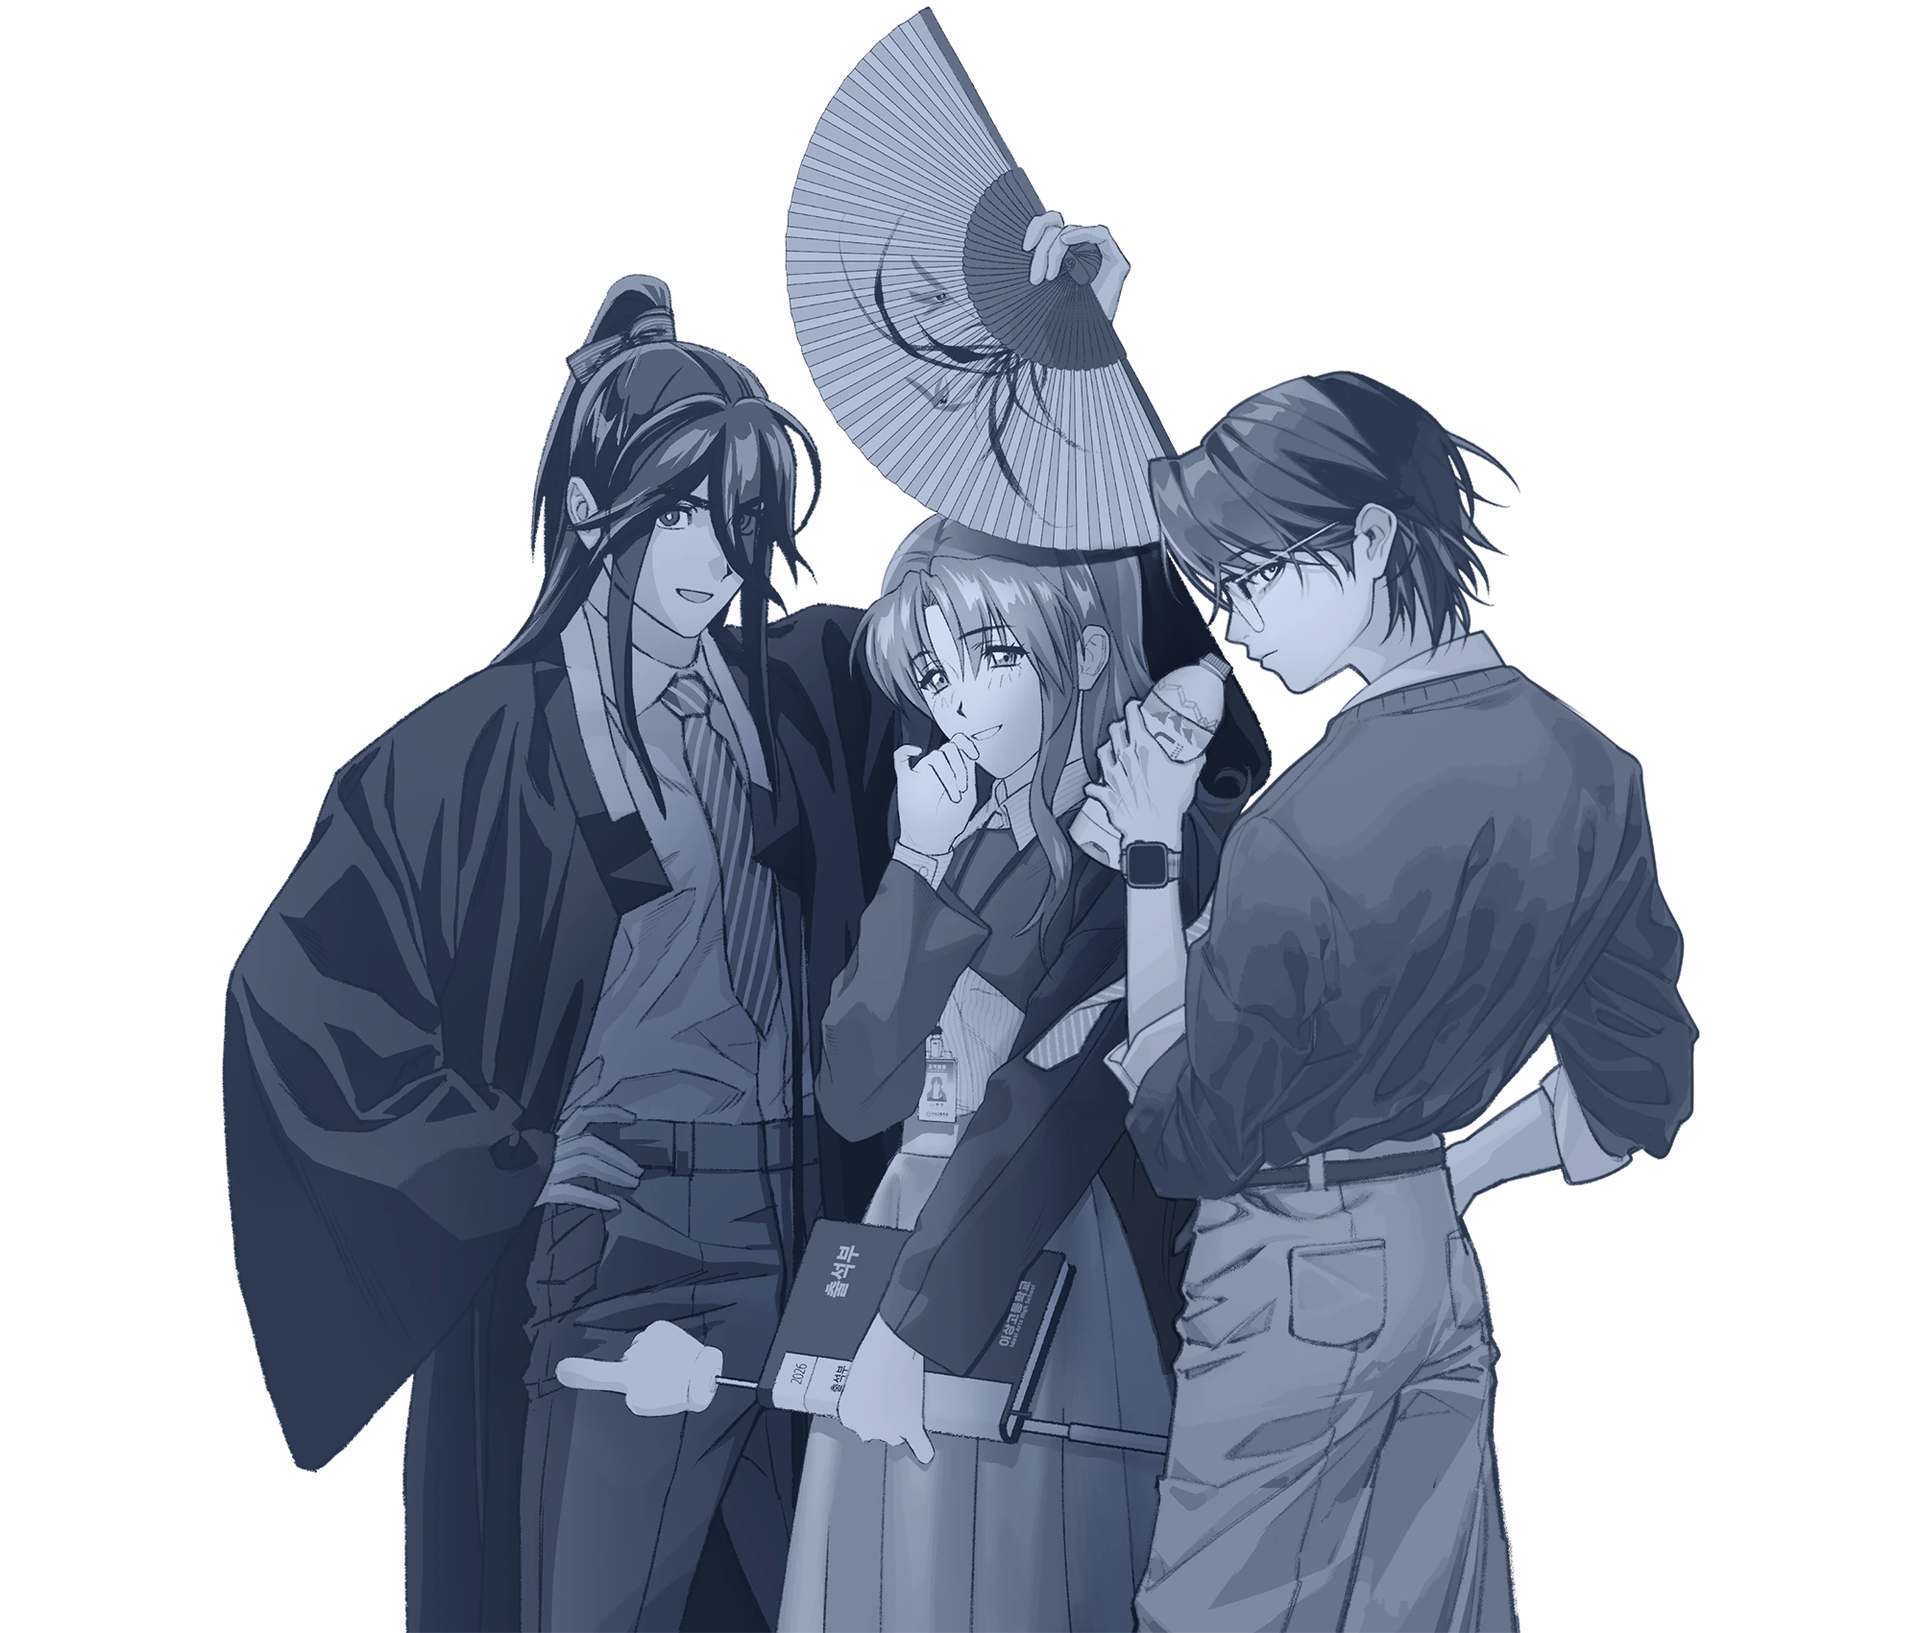
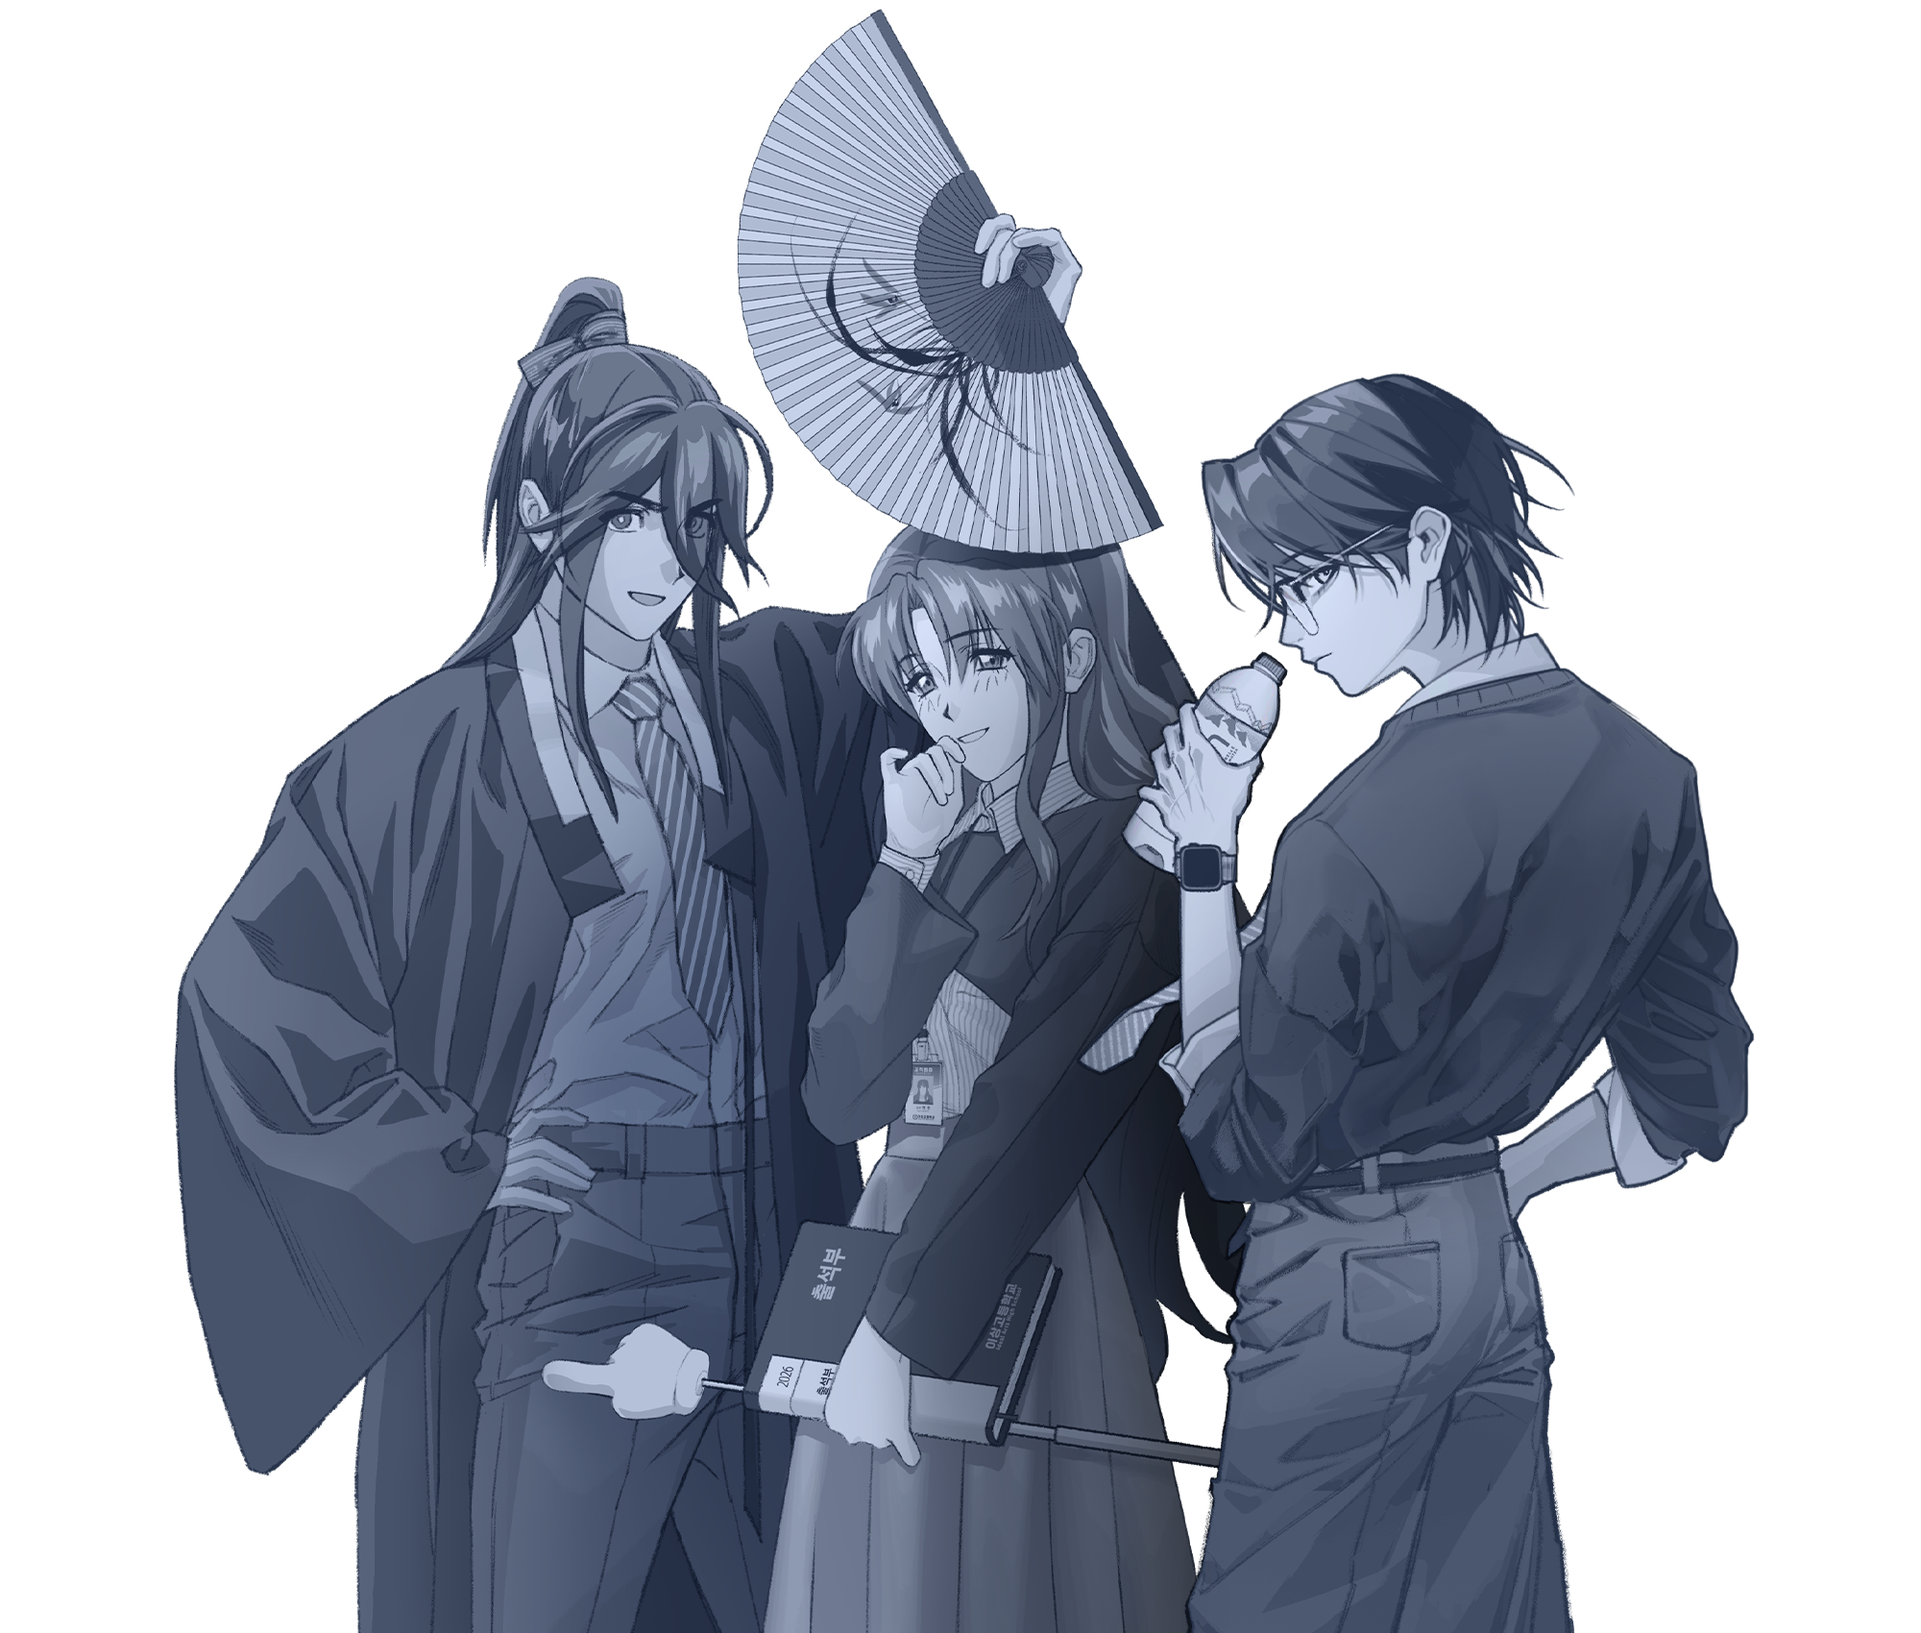
Add files via upload

diff --git a/fallback-content.js b/fallback-content.js
@@ -9,7 +9,7 @@ window.IDEAL_CONTENT = {
     "name": "이상고등학교",
     "team": "팀 이상",
     "slogan": "국내 예술 성장의 중심, 팀 이상입니다.",
-    "intro": "이상고등학교는 창의적 사고와 실천적인 예술적 역량을 기르는 종합예술팀입니다. 팀 이상의 세계관 속에서 우리는 예술을 통해 사회를 변화시키고, 예술을 통해 새로운 가능성을 탐구합니다.",
+    "intro": "팀 이상은 국내 창작문화를 활성화하고 발전시키고자 하는 사람들이 모여, 성장을 최우선가치로 삼아 하나의 꿈을 향해 열심히 협력하고 달려가는 종합예술팀입니다.",
     "wikiUrl": "https://docs.google.com/document/d/1MtoMEaBiY6oxagLoxrlVnCw6KFrMoA4ul-Q90Z6bxdQ/edit",
     "youtubeUrl": "https://www.youtube.com/@team-ideal",
     "previewDrafts": false,
@@ -53,12 +53,12 @@ window.IDEAL_CONTENT = {
     "marppleUrl": "https://marpple.shop/kr/ideal_sen_hs_kr"
   },
   "admission": {
-    "title": "7기 팀원 모집",
-    "resultDate": "",
+    "title": "6기 팀원 모집",
+    "resultDate": "2026-09-13",
     "openChatUrl": "",
     "description": "팀 이상의 새로운 구성원을 기다립니다.",
-    "start": "",
-    "end": "",
+    "start": "2026-08-17",
+    "end": "2026-09-11",
     "guidelinesUrl": "",
     "formUrl": "",
     "status": ""
@@ -74,7 +74,7 @@ window.IDEAL_CONTENT = {
   "values": [
     {
       "title": "지속적인 성장",
-      "text": "결과뿐 아니라 배우고 시도하는 과정을 소중히 여깁니다. 그것이 성장을 지속시킬 것이라 믿습니다."
+      "text": "성장에 한계를 두지 않고 해낼 수 있다는 믿음으로 나아가려 합니다. 그것이 성장을 지속시킬 것이라 믿습니다. 이것이 우리 팀을 이루는 최우선 가치입니다."
     },
     {
       "title": "협업의 시너지",
@@ -717,135 +717,135 @@ window.IDEAL_CONTENT = {
   "workSlots": [
     {
       "id": "slot-1",
-      "title": "작품 등록 공간 01",
+      "title": "赤馬(붉은 말) 캐릭터 디자인 합작",
       "category": "정식컨",
-      "image": "assets/works-placeholder.svg",
+      "image": "assets/works-thumbnail_slot1.webp",
       "description": "공개할 작품을 준비 중입니다.",
       "sample": true
     },
     {
       "id": "slot-2",
-      "title": "작품 등록 공간 02",
+      "title": "지원하기 VS 사약먹기 | 팀 이상 6기 팀원모집",
       "category": "정식컨",
-      "image": "assets/works-placeholder.svg",
+      "image": "assets/works-thumbnail_slot1.webp",
       "description": "공개할 작품을 준비 중입니다.",
       "sample": true
     },
     {
       "id": "slot-3",
-      "title": "작품 등록 공간 03",
+      "title": "[오디오드라마] 넌 세상에서 가장 인간적인 재앙이야. 『멸망 유예 연구소』",
       "category": "정식컨",
-      "image": "assets/works-placeholder.svg",
+      "image": "assets/works-thumbnail_slot1.webp",
       "description": "공개할 작품을 준비 중입니다.",
       "sample": true
     },
     {
       "id": "slot-4",
-      "title": "작품 등록 공간 04",
+      "title": "이상고등학교 스승의 날 대작전!",
       "category": "정식컨",
-      "image": "assets/works-placeholder.svg",
+      "image": "assets/works-thumbnail_slot1.webp",
       "description": "공개할 작품을 준비 중입니다.",
       "sample": true
     },
     {
       "id": "slot-5",
-      "title": "작품 등록 공간 05",
-      "category": "정식컨",
-      "image": "assets/works-placeholder.svg",
+      "title": "자 우리 한 번 미쳐볼까요?",
+      "category": "간식컨",
+      "image": "assets/works-thumbnail_slot1.webp",
       "description": "공개할 작품을 준비 중입니다.",
       "sample": true
     },
     {
       "id": "slot-6",
-      "title": "작품 등록 공간 06",
-      "category": "정식컨",
-      "image": "assets/works-placeholder.svg",
+      "title": "우당탕탕 이상어린이집",
+      "category": "간식컨",
+      "image": "assets/works-thumbnail_slot1.webp",
       "description": "공개할 작품을 준비 중입니다.",
       "sample": true
     },
     {
       "id": "slot-7",
-      "title": "작품 등록 공간 07",
+      "title": "돌아온 팀이상의 만우절",
       "category": "정식컨",
-      "image": "assets/works-placeholder.svg",
+      "image": "assets/works-thumbnail_slot1.webp",
       "description": "공개할 작품을 준비 중입니다.",
       "sample": true
     },
     {
       "id": "slot-8",
-      "title": "작품 등록 공간 08",
-      "category": "정식컨",
-      "image": "assets/works-placeholder.svg",
+      "title": "2026년도 1월 크로키 스터디",
+      "category": "스터디",
+      "image": "assets/works-thumbnail_slot1.webp",
       "description": "공개할 작품을 준비 중입니다.",
       "sample": true
     },
     {
       "id": "slot-9",
-      "title": "작품 등록 공간 09",
+      "title": "팀원들 앞에서 오타쿠발표 하는 팀장",
       "category": "정식컨",
-      "image": "assets/works-placeholder.svg",
+      "image": "assets/works-thumbnail_slot1.webp",
       "description": "공개할 작품을 준비 중입니다.",
       "sample": true
     },
     {
       "id": "slot-10",
-      "title": "작품 등록 공간 10",
-      "category": "정식컨",
-      "image": "assets/works-placeholder.svg",
+      "title": "2025년도 12월 색감 모작 스터디",
+      "category": "스터디",
+      "image": "assets/works-thumbnail_slot1.webp",
       "description": "공개할 작품을 준비 중입니다.",
       "sample": true
     },
     {
       "id": "slot-11",
-      "title": "작품 등록 공간 11",
+      "title": "팀 이상의 2026년 미리보기",
       "category": "정식컨",
-      "image": "assets/works-placeholder.svg",
+      "image": "assets/works-thumbnail_slot1.webp",
       "description": "공개할 작품을 준비 중입니다.",
       "sample": true
     },
     {
       "id": "slot-12",
-      "title": "작품 등록 공간 12",
+      "title": "청춘만화 커버",
       "category": "정식컨",
-      "image": "assets/works-placeholder.svg",
+      "image": "assets/works-thumbnail_slot1.webp",
       "description": "공개할 작품을 준비 중입니다.",
       "sample": true
     },
     {
       "id": "slot-13",
-      "title": "작품 등록 공간 13",
+      "title": "돌쇠 어서오고 | 팀 이상 5기 팀원모집",
       "category": "정식컨",
-      "image": "assets/works-placeholder.svg",
+      "image": "assets/works-thumbnail_slot1.webp",
       "description": "공개할 작품을 준비 중입니다.",
       "sample": true
     },
     {
       "id": "slot-14",
-      "title": "작품 등록 공간 14",
-      "category": "정식컨",
-      "image": "assets/works-placeholder.svg",
+      "title": "미소녀들과의 발렌타인 이벤트",
+      "category": "간식컨",
+      "image": "assets/works-thumbnail_slot1.webp",
       "description": "공개할 작품을 준비 중입니다.",
       "sample": true
     },
     {
       "id": "slot-15",
-      "title": "작품 등록 공간 15",
-      "category": "정식컨",
-      "image": "assets/works-placeholder.svg",
+      "title": "2025년도 11월 해부학 스터디",
+      "category": "스터디",
+      "image": "assets/works-thumbnail_slot1.webp",
       "description": "공개할 작품을 준비 중입니다.",
       "sample": true
     },
     {
       "id": "slot-16",
-      "title": "작품 등록 공간 16",
-      "category": "정식컨",
+      "title": "2025년도 10월 캐릭터 디자인 스터디",
+      "category": "스터디",
       "image": "assets/works-placeholder.svg",
       "description": "공개할 작품을 준비 중입니다.",
       "sample": true
     },
     {
       "id": "slot-17",
-      "title": "작품 등록 공간 17",
+      "title": "더우면 죽어! 지옥의 운동회 (로그)",
       "category": "정식컨",
       "image": "assets/works-placeholder.svg",
       "description": "공개할 작품을 준비 중입니다.",
@@ -853,7 +853,7 @@ window.IDEAL_CONTENT = {
     },
     {
       "id": "slot-18",
-      "title": "작품 등록 공간 18",
+      "title": "좀비만담",
       "category": "정식컨",
       "image": "assets/works-placeholder.svg",
       "description": "공개할 작품을 준비 중입니다.",
@@ -861,7 +861,7 @@ window.IDEAL_CONTENT = {
     },
     {
       "id": "slot-19",
-      "title": "작품 등록 공간 19",
+      "title": "광복 80주년 기념 스피드페인팅",
       "category": "정식컨",
       "image": "assets/works-placeholder.svg",
       "description": "공개할 작품을 준비 중입니다.",
@@ -1038,8 +1038,8 @@ window.IDEAL_CONTENT = {
   ],
   "hero": {
     "kicker": "팀 이상 · 이상고등학교",
-    "line1": "우리의 날개로,",
-    "line2": "더 넓은 세계를.",
-    "intro": "이상고등학교는 창의적 사고와 실천적인 예술적 역량을 기르는 종합예술팀입니다. 팀 이상의 세계관 속에서 우리는 예술을 통해 사회를 변화시키고, 예술을 통해 새로운 가능성을 탐구합니다."
+    "line1": "우리의 날개는,",
+    "line2": "더 높은 이상을 향한다.",
+    "intro": "팀 이상은 국내 창작문화를 활성화하고 발전시키고자 하는 사람들이 모여, 성장을 최우선가치로 삼아 하나의 꿈을 향해 열심히 협력하고 달려가는 종합예술팀입니다."
   }
 };

diff --git a/index.html b/index.html
@@ -2,7 +2,7 @@
 <!doctype html>
 
 <html lang="ko">
-<head><meta charset="utf-8"/><meta content="width=device-width, initial-scale=1" name="viewport"/><meta content="#14243a" name="theme-color"/><meta content="팀 이상, 이상고등학교의 창작 활동과 신입생 모집, 공지사항, 작품을 만나보세요." name="description"/><title>이상고등학교 | 팀 이상</title><link href="https://ideal.sen.hs.io.kr/" rel="canonical"/><link href="./favicon.ico?v=94d53b0c2378" rel="icon" sizes="any" type="image/x-icon"/><link href="./favicon-16.png?v=94d53b0c2378" rel="icon" sizes="16x16" type="image/png"/><link href="./favicon-32.png?v=94d53b0c2378" rel="icon" sizes="32x32" type="image/png"/><link href="./apple-touch-icon.png?v=94d53b0c2378" rel="apple-touch-icon" sizes="180x180"/><meta content="ko_KR" property="og:locale"/><meta content="이상고등학교" property="og:site_name"/><meta content="website" property="og:type"/><meta content="이상고등학교 | 팀 이상" property="og:title"/><meta content="팀 이상, 이상고등학교의 창작 활동과 신입생 모집, 공지사항, 작품을 만나보세요." property="og:description"/><meta content="https://ideal.sen.hs.io.kr/" property="og:url"/><meta content="https://ideal.sen.hs.io.kr/assets/main-illustration.webp" property="og:image"/><meta content="summary_large_image" name="twitter:card"/><link as="image" fetchpriority="high" href="./assets/main-illustration.webp?v=c45fc70acdb8" rel="preload" type="image/webp"/><script type="application/ld+json">{"@context": "https://schema.org", "@type": "WebSite", "name": "이상고등학교", "alternateName": "팀 이상", "url": "https://ideal.sen.hs.io.kr/", "inLanguage": "ko-KR"}</script><link href="./site.css?v=20260909-final" rel="stylesheet"/><link href="./home-layout.css?v=20260909-final" rel="stylesheet"/><script defer="True" src="./fallback-content.js?v=20260909-final"></script><script defer="True" src="./config.js?v=20260909-final"></script><script defer="True" src="./sheets-loader.js?v=20260909-final"></script><script defer="True" src="./site.js?v=20260909-final"></script><script defer="True" src="./home-scroll.js?v=20260909-final"></script></head>
+<head><meta charset="utf-8"/><meta content="width=device-width, initial-scale=1" name="viewport"/><meta content="#14243a" name="theme-color"/><meta content="팀 이상, 이상고등학교 홈페이지입니다." name="description"/><title>이상고등학교 | 팀 이상</title><link href="https://ideal.sen.hs.io.kr/" rel="canonical"/><link href="./favicon.ico?v=94d53b0c2378" rel="icon" sizes="any" type="image/x-icon"/><link href="./favicon-16.png?v=94d53b0c2378" rel="icon" sizes="16x16" type="image/png"/><link href="./favicon-32.png?v=94d53b0c2378" rel="icon" sizes="32x32" type="image/png"/><link href="./apple-touch-icon.png?v=94d53b0c2378" rel="apple-touch-icon" sizes="180x180"/><meta content="ko_KR" property="og:locale"/><meta content="이상고등학교" property="og:site_name"/><meta content="website" property="og:type"/><meta content="이상고등학교 | 팀 이상" property="og:title"/><meta content="팀 이상, 이상고등학교 홈페이지입니다." property="og:description"/><meta content="https://ideal.sen.hs.io.kr/" property="og:url"/><meta content="https://ideal.sen.hs.io.kr/assets/thumbnail-illustration.webp" property="og:image"/><meta content="summary_large_image" name="twitter:card"/><link as="image" fetchpriority="high" href="./assets/main-illustration.webp?v=c45fc70acdb8" rel="preload" type="image/webp"/><script type="application/ld+json">{"@context": "https://schema.org", "@type": "WebSite", "name": "이상고등학교", "alternateName": "팀 이상", "url": "https://ideal.sen.hs.io.kr/", "inLanguage": "ko-KR"}</script><link href="./site.css?v=20260909-final" rel="stylesheet"/><link href="./home-layout.css?v=20260909-final" rel="stylesheet"/><script defer="True" src="./fallback-content.js?v=20260909-final"></script><script defer="True" src="./config.js?v=20260909-final"></script><script defer="True" src="./sheets-loader.js?v=20260909-final"></script><script defer="True" src="./site.js?v=20260909-final"></script><script defer="True" src="./home-scroll.js?v=20260909-final"></script></head>
 <body data-page="home" id="top">
 <!-- 본문 바로가기 -->
 <a class="skip" href="#main">본문 바로가기</a>

diff --git a/site.js b/site.js
@@ -243,7 +243,7 @@
     // --- 모집 상태 ---
     function recruitmentState(p) {
         // 공지 없음
-        if (!p || !p.published || p.archive) {
+        if (!p || p.published === false || p.archive) {
             return {
                 label: '모집 준비 중',
                 open: false
@@ -300,7 +300,7 @@
         const resultDate = admission.resultDate || '';
         const chatUrl = admission.openChatUrl || '';
         const schedule = {start: admission.start || '', end: admission.end || ''};
-        const status = recruitmentState({...schedule, published: Boolean(p?.published), archive: Boolean(p?.archive)});
+        const status = recruitmentState(schedule);
 
         // 날짜가 확정되지 않았을 때는 임의의 날짜를 표시하지 않습니다.
         const resultLabel = /^\d{4}-\d{2}-\d{2}$/.test(resultDate)
@@ -326,7 +326,7 @@
         ];
 
         return section(`
-          ${head('신입생 모집')}
+          ${head('입학 안내')}
 
           <div class="recruitment-panel">
             <div class="recruitment-summary">
